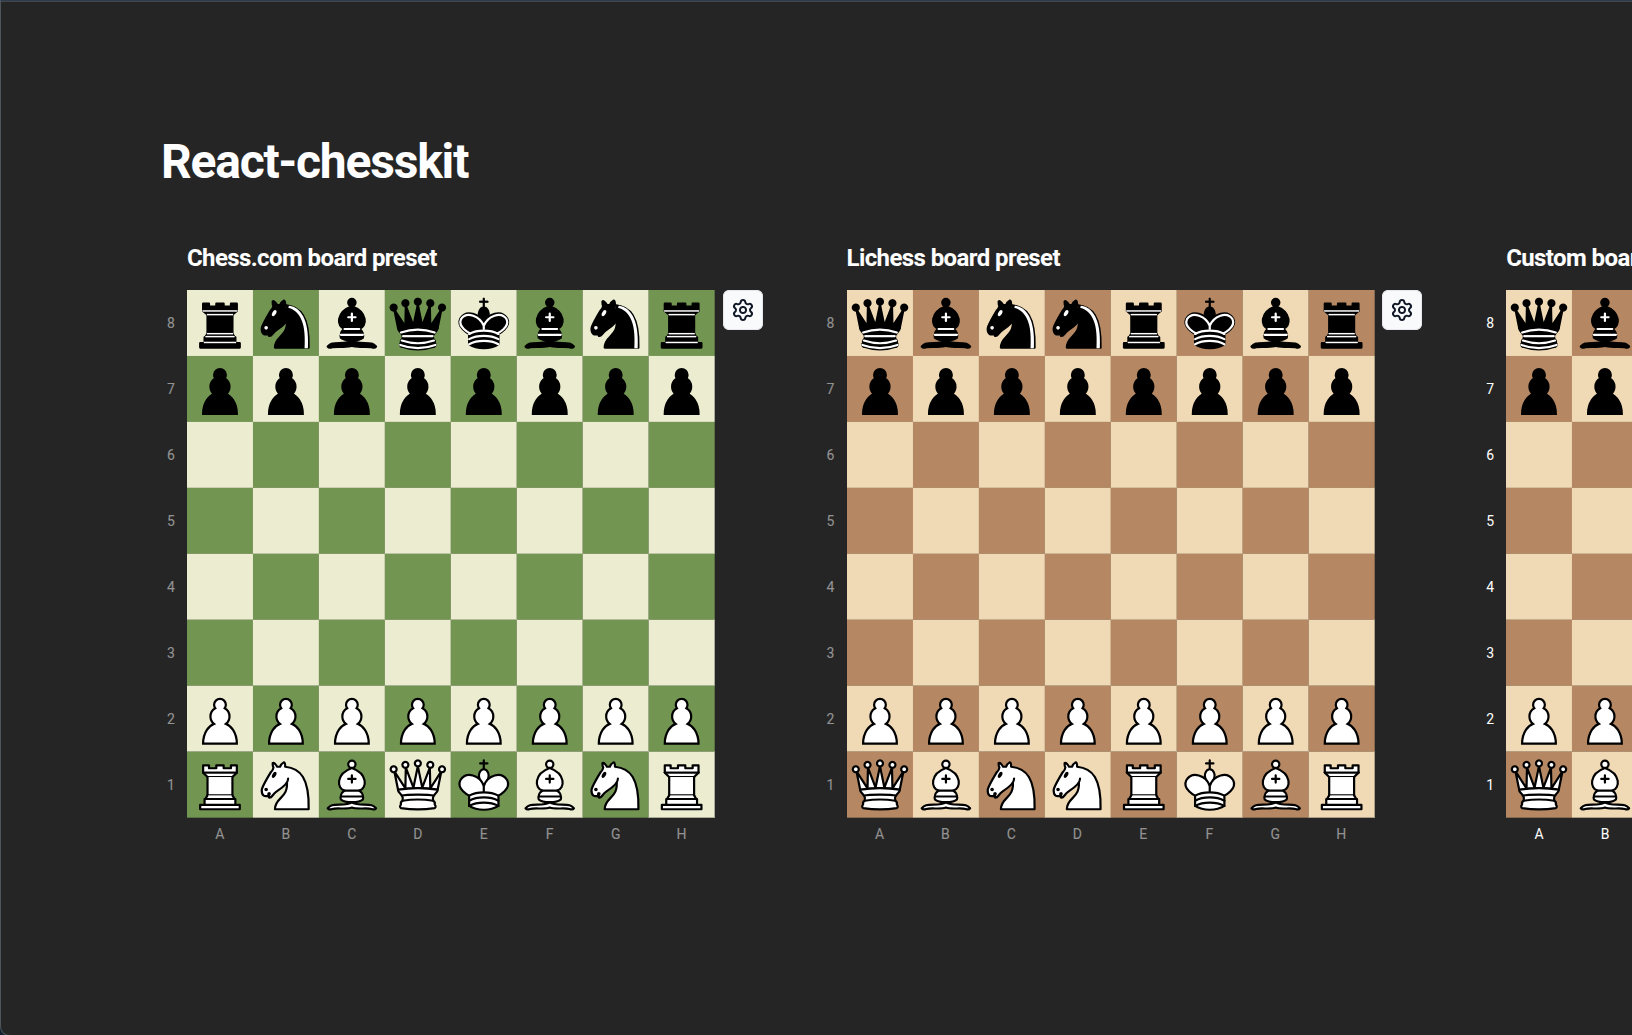
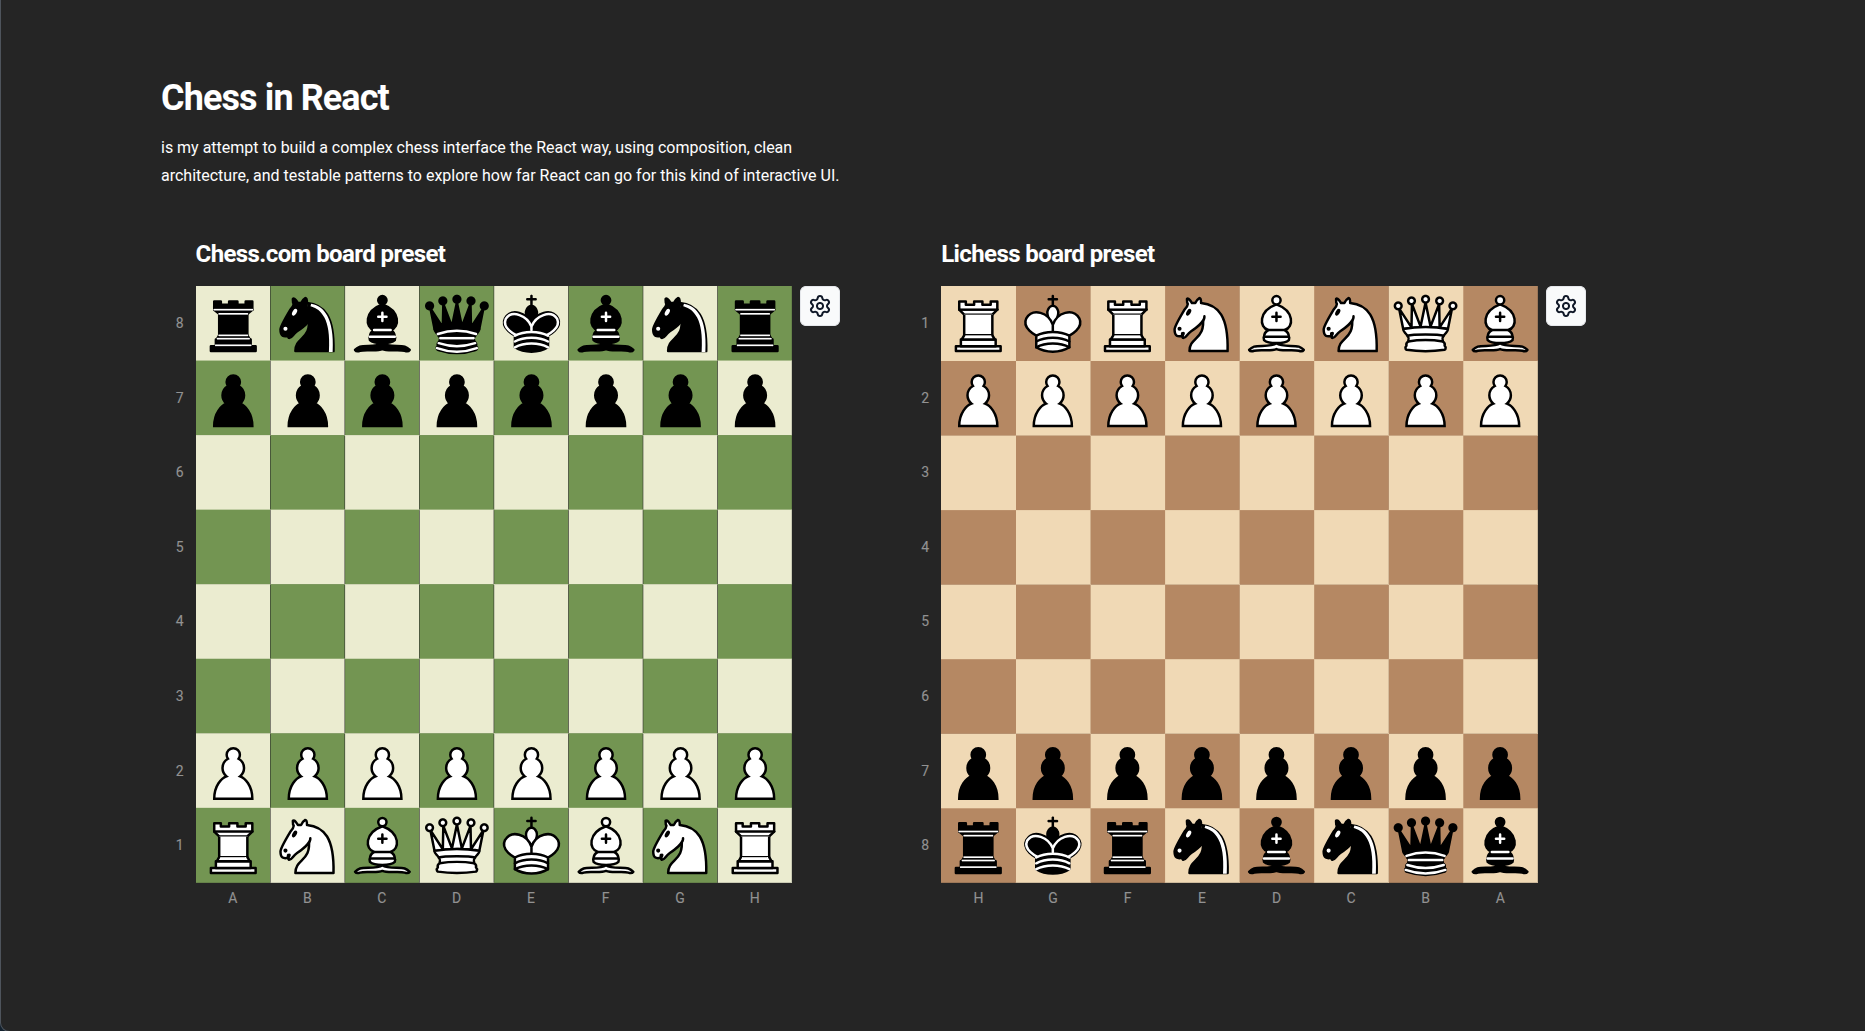
feat: adjust padding in HomeScreen component for improved layout

diff --git a/src/modules/chess-board/presentation/routes/HomeScreen.tsx b/src/modules/chess-board/presentation/routes/HomeScreen.tsx
@@ -15,7 +15,7 @@ import { BoardGameStateDialog } from "@/components/ResultDialog";
 export function HomeScreen() {
 	return (
 		<div className="w-full h-full bg-[#252525] pb-60">
-			<div className="w-full px-40 pt-34 pb-12 text-white">
+			<div className="w-full px-40 pt-20 pb-12 text-white">
 				<h2 className="scroll-m-20 pb-2 text-4xl font-semibold tracking-tight first:mt-0">
 					Chess in React
 				</h2>